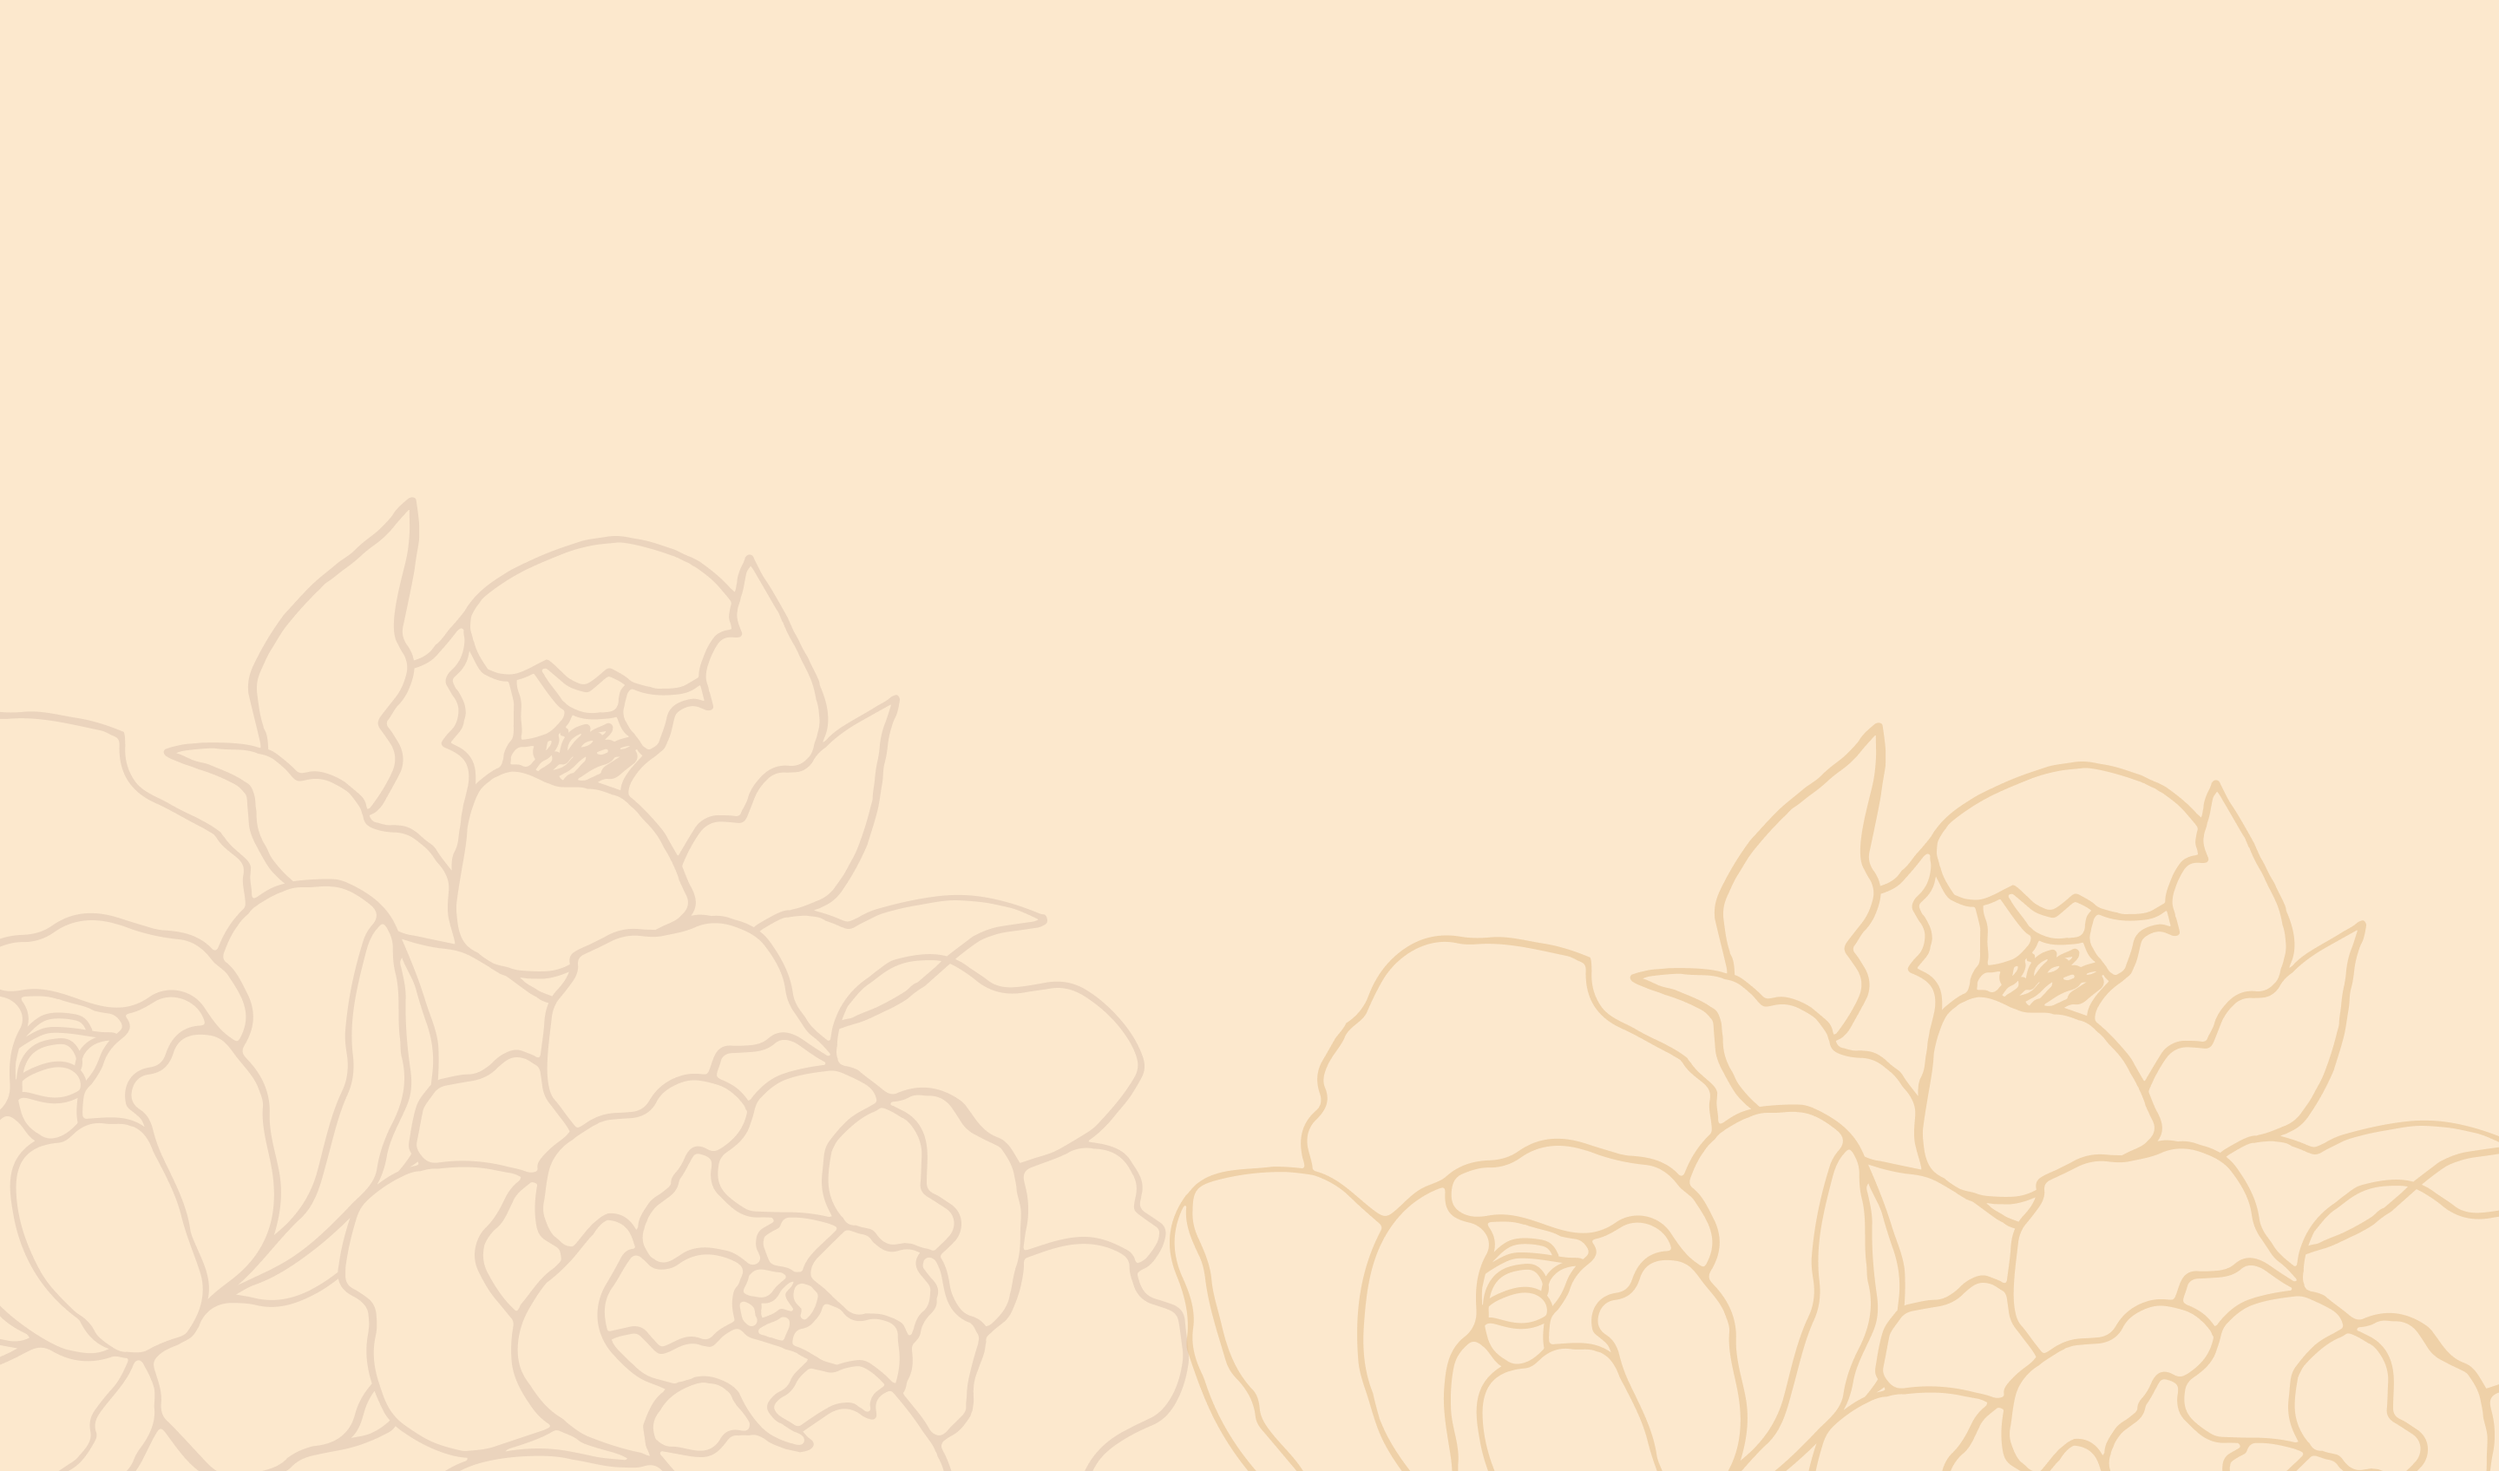
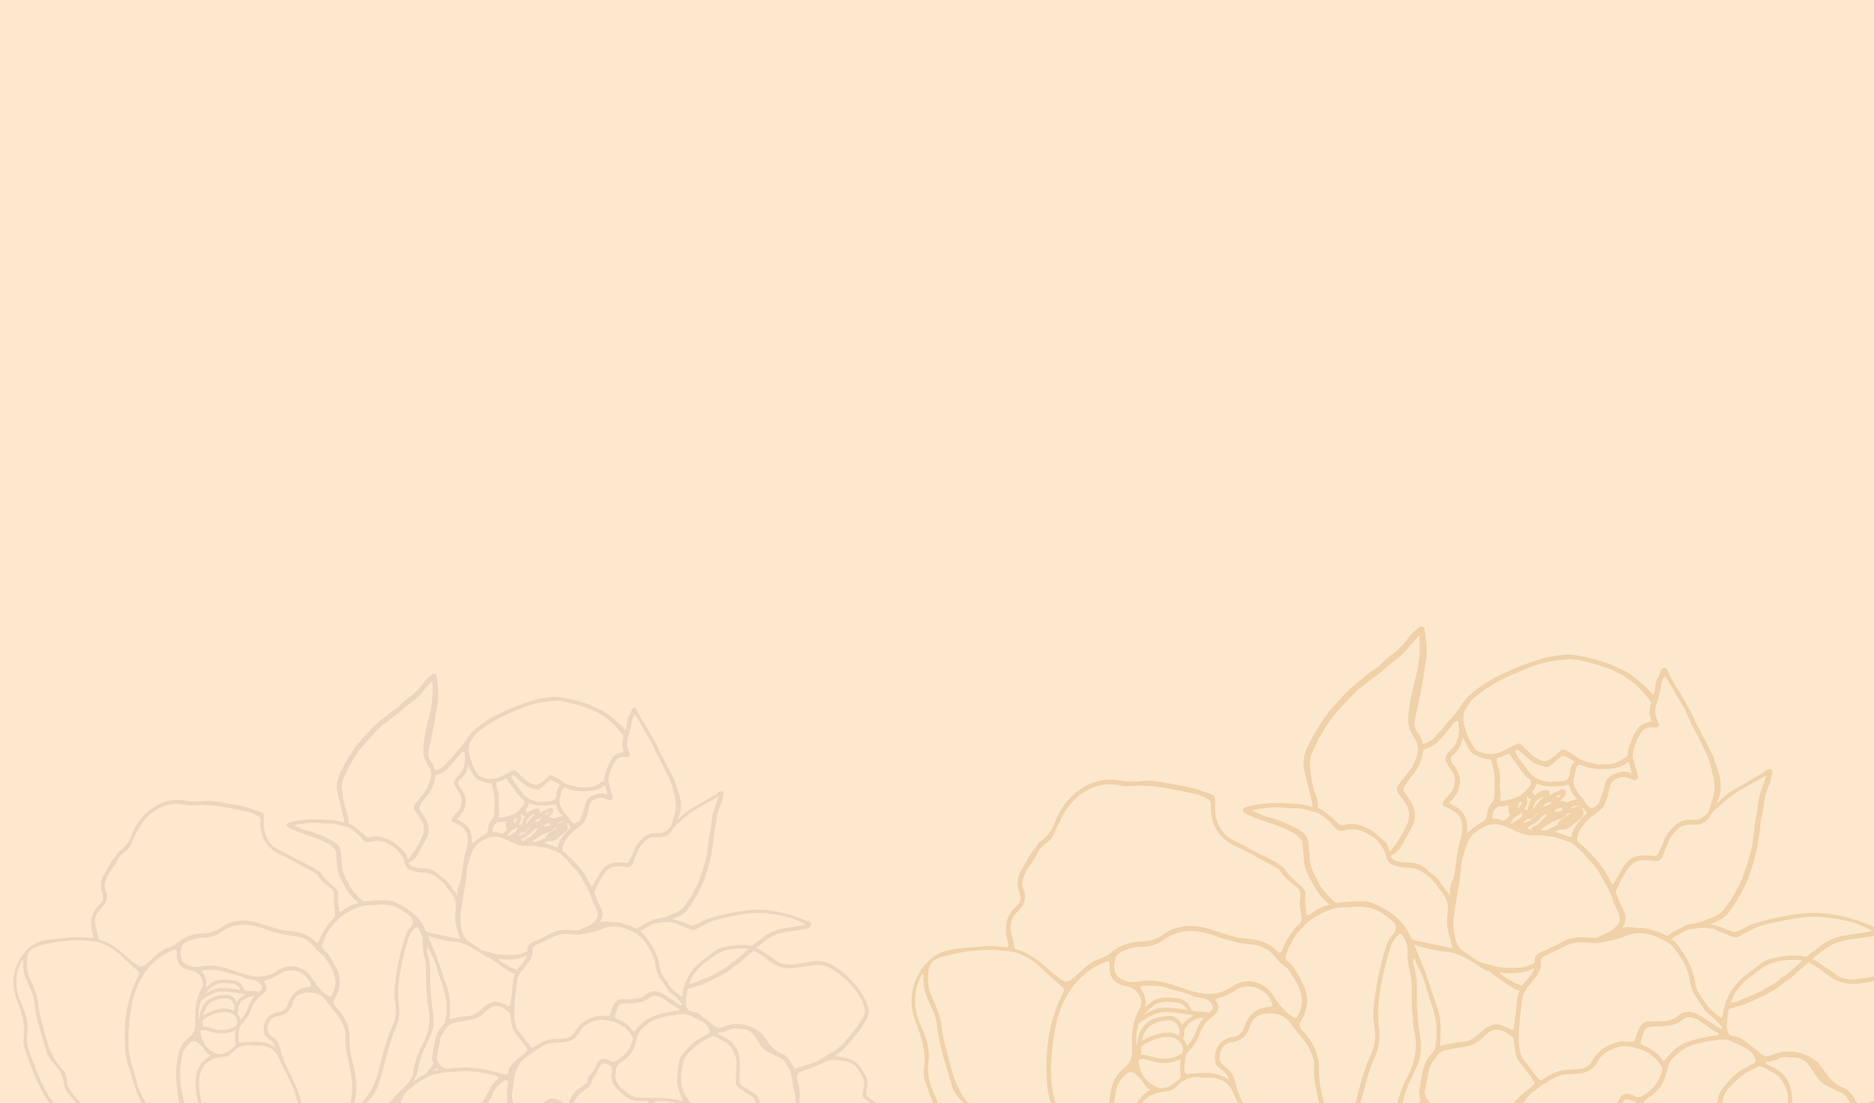
Design Corrections
- Replace the backgrounds for whyus section
-Including the silver price section on banner

diff --git a/src/pages/Home.js b/src/pages/Home.js
@@ -42,6 +42,7 @@ import women_image from "../assets/women_image.jpg"
 import silver_jewel from "../assets/silver_jewel.jpg"
 import gold_jewel from "../assets/gold_jewel.jpg"
 import whatsapp_floating from "../assets/whatsapp_icon.svg"
+import refresh_icon from '../assets/Refresh_icon.png'
 
 
 
@@ -59,7 +60,42 @@ function Home() {
 
     return (
         <>
+            {/* Floating Whatsapp icon */}
             <a href="https://wa.me/919003058300/?text=Hi," target="_blank"><img src={whatsapp_floating} alt="Whatsapp_Icon" className="w-[50px] sm:w-[70px] h-fit fixed bottom-3 right-3 sm:bottom-9 sm:right-7 animate-bounce hover:scale-125 duration-300 transition-transform z-30" /></a>
+
+            {/* Silver price */}
+
+            {/* Mobile */}
+            <div className='w-full bg-[#FCE8CD] font-poppins lg:hidden'>
+                <p className='bg-[#CFA266] text-white font-medium text-center py-4 text-[18px]'>Silver Price Today</p>
+
+                <div className='flex justify-between p-3'>
+                    <div className='flex items-center w-[161px] sm:w-[175px]'>
+                        <p className='text-[#28040E] text-[15px] font-normal  sm:text-[16px]'><span className='font-semibold'>₹ 169.90</span> /g <br /> <span className='font-semibold'>₹ 1,69,900</span>/ kilogram.</p>
+                    </div>
+
+                    <div className='flex items-center gap-x-1 w-[155px] sm:w-[170px]'>
+                        <img className='w-[15px] h-[15px]' src={refresh_icon} alt='Refresh icon' />
+                        <p className='text-[14px] text-right sm:text-[16px]'>Last Updated 27 Oct 2025, 11:00 AM</p>
+                    </div>
+                </div>
+            </div>
+
+            {/* Desktop */}
+            <div className='w-full bg-[#FCE8CD] font-poppins hidden lg:block'>
+
+                <div className='flex justify-between'>
+                    <div className='flex items-center gap-x-[25px]'>
+                        <p className='bg-[#CFA266] px-8 py-3 w-fit text-white font-medium'>Silver Price Today</p>
+                        <p className='text-[#28040E] text-[18px] font-normal'><span className='font-semibold'>₹169.90</span> per gram and <span className='font-semibold'>₹1,69,900</span> per kilogram.</p>
+                    </div>
+
+                    <div className='flex items-center gap-x-2 mr-6'>
+                        <img className='w-[15px] h-[15px]' src={refresh_icon} alt='Refresh icon' />
+                        <p>Last Updated 27 Oct 2025, 11:00 AM</p>
+                    </div>
+                </div>
+            </div>
 
             <Swiper
                 spaceBetween={30}
@@ -75,13 +111,13 @@ function Home() {
                 modules={[Autoplay, Pagination, Navigation]}
                 className="mySwiper"
             >
-                <SwiperSlide>
+                {/* <SwiperSlide>
                     <div className="festive-banner relative">
                         <a href="#launchOffers" className="hover:scale-110 transition duration-300 absolute bottom-8 sm:bottom-16 sm:left-[24%]  ">
                             <button className="rounded-[32px] bg-[#CFA266] w-[259px] font-poppins text-[16px] font-normal text-white py-[16px] px-[14px] cursor-pointer">View our Best Sellers</button>
                         </a>
                     </div>
-                </SwiperSlide>
+                </SwiperSlide> */}
                 <SwiperSlide>
                     <div className="banner-section">
                         <h1 className="font-atteron uppercase text-[52px] leading-[70px] text-center sm:text-left sm:text-[65px] text-white sm:leading-[80px] font-normal w-full sm:max-w-[720px] tracking-[1px]">Born from tradition Designed for today</h1>
@@ -106,7 +142,7 @@ function Home() {
             <div className="whyus">
                 <h1 className="font-atteron text-[52px] sm:text-[72px] text-center text-[#5C0A1F] leading-normal">WHY US?</h1>
 
-                <div className="font-poppins text-center text-[16px] sm:text-[24px] font-medium sm:leading-[38px] text-[#28040E] max-w-[330px] sm:max-w-[1000px] mt-5 sm:mt-9 ">
+                <div className="font-poppins text-center text-[16px] sm:text-[20px] font-normal text-[#28040E] max-w-[330px] sm:max-w-[1035px] mt-5 sm:mt-10 ">
                     <p>With nearly 60 years of heritage, Tarangi carries forward the craftsmanship and trust of their family's tradition, reimagined for today by the daughters. Each piece blends timeless artistry with a modern sensibility, creating jewelry that feels rooted and refreshingly new. The handmade silver jewelry designs celebrate everyone, including women, men and couples, making inclusivity our defining hallmark. Tarangi offers fine 925 silver jewelry. </p>
                 </div>
             </div>
@@ -122,7 +158,7 @@ function Home() {
                         </div>
 
                         <div className="border-2 border-white w-[360px] h-[374.15px] relative z-0 " onClick={toggle}>
-                            <img src={women_design} alt="men-image" className="w-[359px] h-[539px] sm:w-[373px] sm:h-[410px] h-fit transform transition-transform duration-300 ease-out hover:scale-110 absolute bottom-[-0px] z-10" />
+                            <img src={women_design} alt="men-image" className="w-[359px] h-[539px] sm:w-[373px] sm:h-[410px] h-fit transform transition-transform duration-300 ease-out hover:scale-110 absolute  bottom-[-0px] z-10" />
                             <h2 className="font-atteron text-white text-center font-normal leading-normal text-[50px] z-20 absolute bottom-0 left-1/4 ">Women</h2>
                         </div>
 
@@ -185,13 +221,13 @@ function Home() {
                         <div className="relative border">
                             <img src={silver_jewel} alt="silver_jewel" className="sm:w-[542px] sm:h-[645px]" />
                             <h2 className="font-atteron text-white text-center font-normal leading-normal text-[35px] sm:text-[50px] z-20 absolute top-[100px] sm:top-[150px] left-1/2 -translate-x-1/2 -translate-y-1/2">Gold</h2>
-                            <h2 className="font-atteron text-white text-center font-normal leading-normal text-[35px] sm:text-[50px] z-20 absolute bottom-0 left-1/2 -translate-x-1/2 -translate-y-1/2">₹ 4,00,000</h2>
+                            <h2 className="font-atteron text-white text-center font-normal leading-normal text-[35px] sm:text-[50px] z-20 absolute bottom-0 left-1/2 -translate-x-1/2 -translate-y-1/2">₹ 4<span className='font-poppins'>,</span>00<span className='font-poppins'>,</span>000</h2>
                         </div>
 
                         <div className="relative">
                             <img src={gold_jewel} alt="silver_jewel" className="sm:w-[542px] sm:h-[645px]" />
                             <h2 className="font-atteron text-white text-center font-normal leading-normal text-[35px] sm:text-[50px] z-20 absolute top-[100px] sm:top-[150px] left-1/2 -translate-x-1/2 -translate-y-1/2">Silver</h2>
-                            <h2 className="font-atteron text-white text-center font-normal leading-normal text-[35px] sm:text-[50px] z-20 absolute bottom-0 left-1/2 -translate-x-1/2 -translate-y-1/2">₹ 12,000</h2>
+                            <h2 className="font-atteron text-white text-center font-normal leading-normal text-[35px] sm:text-[50px] z-20 absolute bottom-0 left-1/2 -translate-x-1/2 -translate-y-1/2">₹ 12<span className='font-poppins'>,</span>000</h2>
 
                             {/* <h2 className="max-w-[350px] font-atteron text-white text-center font-normal leading-normal text-[25px] sm:text-[24px] z-20 tracking-[2px] absolute bottom-0 sm:bottom-8 left-[20%]">Get the Look of Luxury At just<span className="text-[30px] font-bold"> ₹12,000</span></h2> */}
                             <p></p>
@@ -238,40 +274,40 @@ function Home() {
                     <h1 className="section-heading !text-white tracking-[1px]">Best Sellers</h1>
 
                     <div className="flex flex-col flex-wrap sm:flex-row gap-y-20 items-center justify-between mt-20 sm:mt-36">
-                        <div className="flex flex-col items-center gap-y-1 transform transition-transform duration-300 ease-out hover:scale-110" onClick={toggle}>
-                            <img src={new_product_1} alt="new_product_image" className="w-[395px] h-[395px]" />
-                            <h5 className="font-poppins text-[28px] font-normal leading-normal text-white mt-6">Flora Beauty</h5>
-                            <h4 className="font-poppins text-[28px] font-semibold leading-normal text-[#FCD99F]">₹ 1,700</h4>
+                        <div className="flex flex-col items-center gap-y-1 " onClick={toggle}>
+                            <img src={new_product_1} alt="new_product_image" className="w-[395px] h-[395px] transition-transform duration-300 ease-out hover:scale-110" />
+                            <h5 className="font-poppins text-[22px] font-normal text-white mt-5">Flora Beauty</h5>
+                            <h4 className="font-poppins text-[20px] font-semibold text-[#FCD99F]">₹ 1,700</h4>
                         </div>
 
                         <div className="flex flex-col items-center gap-y-1 transform transition-transform duration-300 ease-out hover:scale-110" onClick={toggle}>
                             <img src={new_product_2} alt="new_product_image" className="w-[395px] h-[395px]" />
-                            <h5 className="font-poppins text-[28px] font-normal leading-normal text-white mt-6">Queen Necklace</h5>
-                            <h4 className="font-poppins text-[28px] font-semibold leading-normal text-[#FCD99F]">₹ 4,650</h4>
+                            <h5 className="font-poppins text-[22px] font-normal text-white mt-5">Queen Necklace</h5>
+                            <h4 className="font-poppins text-[20px] font-semibold text-[#FCD99F]">₹ 4,650</h4>
                         </div>
 
                         <div className="flex flex-col items-center gap-y-1 transform transition-transform duration-300 ease-out hover:scale-110" onClick={toggle}>
                             <img src={new_product_3} alt="new_product_image" className="w-[395px] h-[395px]" />
-                            <h5 className="font-poppins text-[28px] font-normal leading-normal text-white mt-6">Bloom Haathphool</h5>
-                            <h4 className="font-poppins text-[28px] font-semibold leading-normal text-[#FCD99F]">₹ 2,400</h4>
+                            <h5 className="font-poppins text-[22px] font-normal text-white mt-5">Bloom Haathphool</h5>
+                            <h4 className="font-poppins text-[20px] font-semibold text-[#FCD99F]">₹ 2,400</h4>
                         </div>
 
                         <div className="flex flex-col items-center gap-y-1 transform transition-transform duration-300 ease-out hover:scale-110" onClick={toggle}>
                             <img src={new_product_4} alt="new_product_image" className="w-[395px] h-[395px]" />
-                            <h5 className="font-poppins text-[28px] font-normal leading-normal text-white mt-6">Bold Black Stud</h5>
-                            <h4 className="font-poppins text-[28px] font-semibold leading-normal text-[#FCD99F]">₹ 990</h4>
+                            <h5 className="font-poppins text-[22px] font-normal text-white mt-5">Bold Black Stud</h5>
+                            <h4 className="font-poppins text-[20px] font-semibold text-[#FCD99F]">₹ 990</h4>
                         </div>
 
                         <div className="flex flex-col items-center gap-y-1 transform transition-transform duration-300 ease-out hover:scale-110" onClick={toggle}>
                             <img src={new_product_5} alt="new_product_image" className="w-[395px] h-[395px]" />
-                            <h5 className="font-poppins text-[28px] font-normal leading-normal text-white mt-6">Lord Shiva Kada</h5>
-                            <h4 className="font-poppins text-[28px] font-semibold leading-normal text-[#FCD99F]">₹ 16,500</h4>
+                            <h5 className="font-poppins text-[22px] font-normal text-white mt-5">Lord Shiva Kada</h5>
+                            <h4 className="font-poppins text-[20px] font-semibold text-[#FCD99F]">₹ 16,500</h4>
                         </div>
 
                         <div className="flex flex-col items-center gap-y-1 transform transition-transform duration-300 ease-out hover:scale-110" onClick={toggle}>
                             <img src={new_product_6} alt="new_product_image" className="w-[395px] h-[395px]" />
-                            <h5 className="font-poppins text-[28px] font-normal leading-normal text-white mt-6">Choco Hollow Bracelet</h5>
-                            <h4 className="font-poppins text-[28px] font-semibold leading-normal text-[#FCD99F]">₹ 4,100</h4>
+                            <h5 className="font-poppins text-[22px] font-normal text-white mt-5">Choco Hollow Bracelet</h5>
+                            <h4 className="font-poppins text-[20px] font-semibold text-[#FCD99F]">₹ 4,100</h4>
                         </div>
                     </div>
                 </div>

diff --git a/src/pages/Product_Listing.js b/src/pages/Product_Listing.js
@@ -40,7 +40,7 @@ function Product_Listing() {
                 {
                     Products.map((item) => {
                         return (
-                            <Link to="/productdescription" className="font-poppins w-[170px] sm:w-[310px] mx-auto">
+                            <Link to="/productdescription" className="relative font-poppins w-[173px] sm:w-[310px] mx-auto hover:grayscale">
                                 <img className="w-full h-fit" src={item.product_img} alt={item.alt} />
 
                                 <div className="mt-2 flex justify-between sm:mt-4">
@@ -49,10 +49,12 @@ function Product_Listing() {
                                         <h3 className="text-[16px] font-semibold sm:text-[20px]">{item.price}</h3>
                                         <p className="text-[14px] font-semibold text-[#6F6F6F] sm:text-[14px]">{item.product_name}</p>
                                     </div>
+                                    {/* Sold out */}
+                                    <div className="bg-[#FFF5E8] absolute top-3 right-3 rounded-full px-3.5 py-1.5">
+                                        <p className="text-primary font-semibold text-[14px]">Sold Out</p>
+                                    </div>
 
-                                    <p className="text-primary font-semibold text-[20px]">Sold Out</p>
-
-                                    <div className="hidden">
+                                    <div className="hidden sm:block">
                                         <p className="text-[15px] text-[#6F6F6F]">Colors Available</p>
 
                                         <div className="mt-1 flex justify-end gap-x-3">

diff --git a/src/components/Footer.js b/src/components/Footer.js
@@ -35,7 +35,7 @@ function Footer() {
                         </div>
                     </div>
 
-                    <div className="font-poppins text-[16px] sm:text-[22px] text-white text-left sm:text-right ml-7 sm:ml-0">
+                    <div className="font-poppins text-[16px] sm:text-[18px] text-white text-left sm:text-right ml-7 sm:ml-0">
                         <a href="tel:9003058300"><p>+91 90030 58300</p></a>
                         <a href="mailto:tarangijewelsindia@gmail.com"><p className="mt-3">tarangijewelsindia@gmail.com</p></a>
                         <a href="https://share.google/6f6U8XByQoc0FWsBP" target="_blank">

diff --git a/src/components/Product_filter.js b/src/components/Product_filter.js
@@ -190,7 +190,7 @@ function Product_Filter() {
 
                         </div >
 
-                        {/* Mobile Verion */}
+                        {/* Mobile Verion Filter */}
                         <div className="w-full bg-[#EBBB85] font-poppins absolute bottom-0 p-5 lg:hidden px-4">
 
                             <div className="flex justify-between">

diff --git a/src/App.css b/src/App.css
@@ -210,7 +210,7 @@ input::placeholder {
 
   .whyus {
     background-image: url("./assets/backgrounds/whyus_background_mobile.png");
-    padding: 100px 0px;
+    /* padding: 100px 0px; */
   }
 
   .section-heading {
